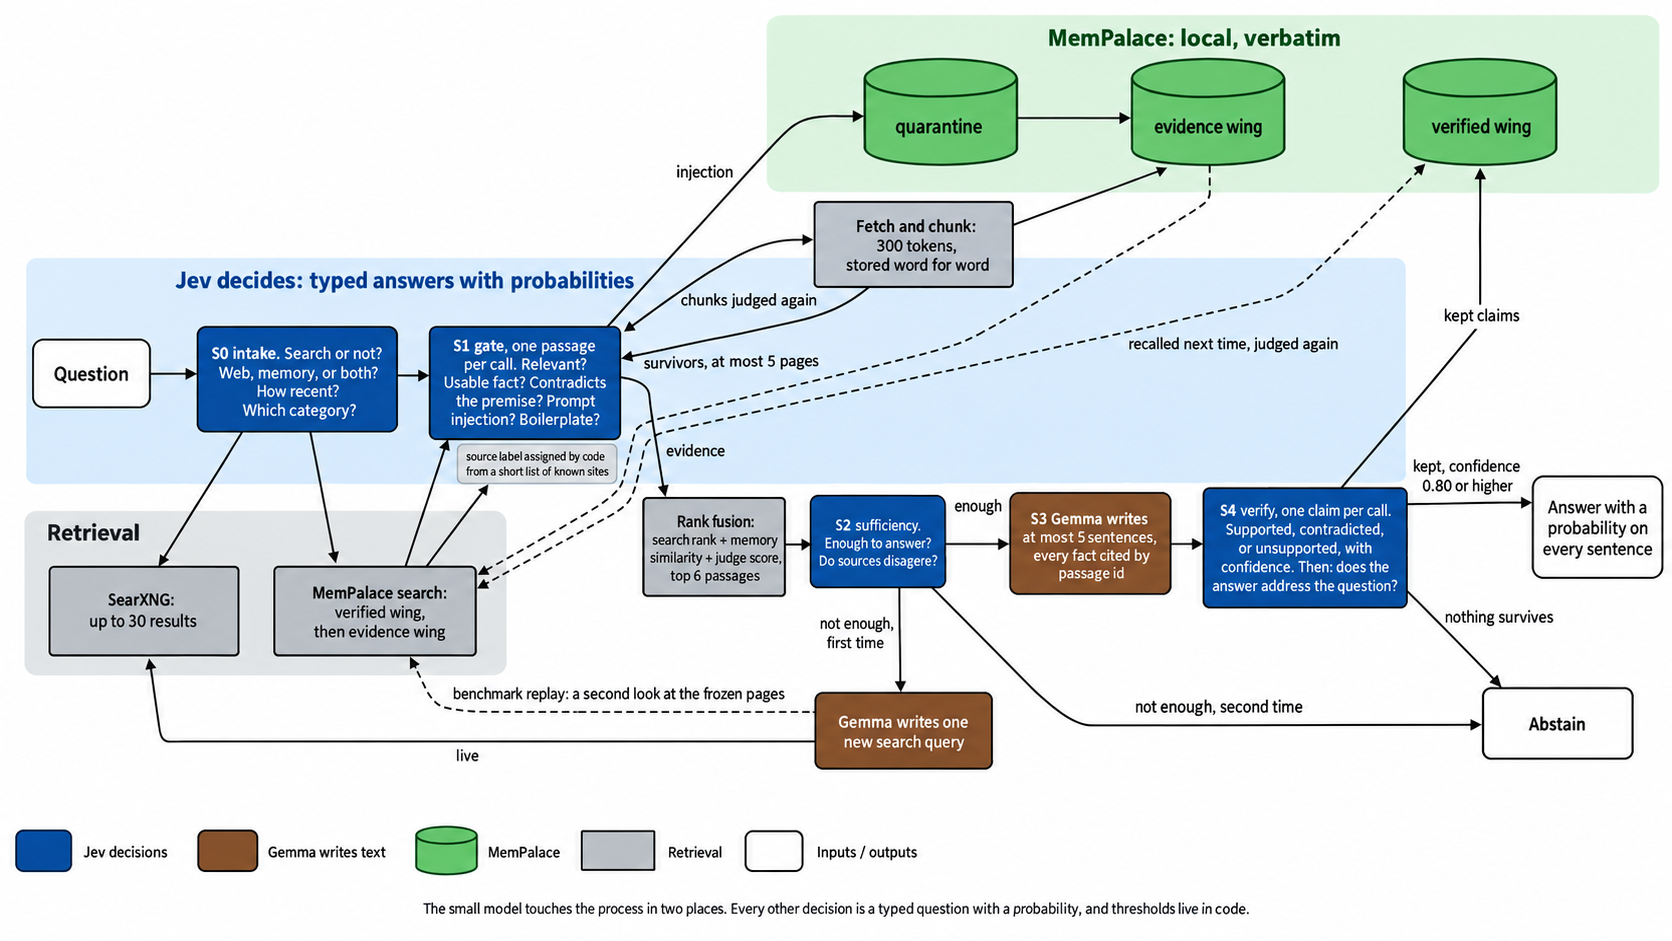
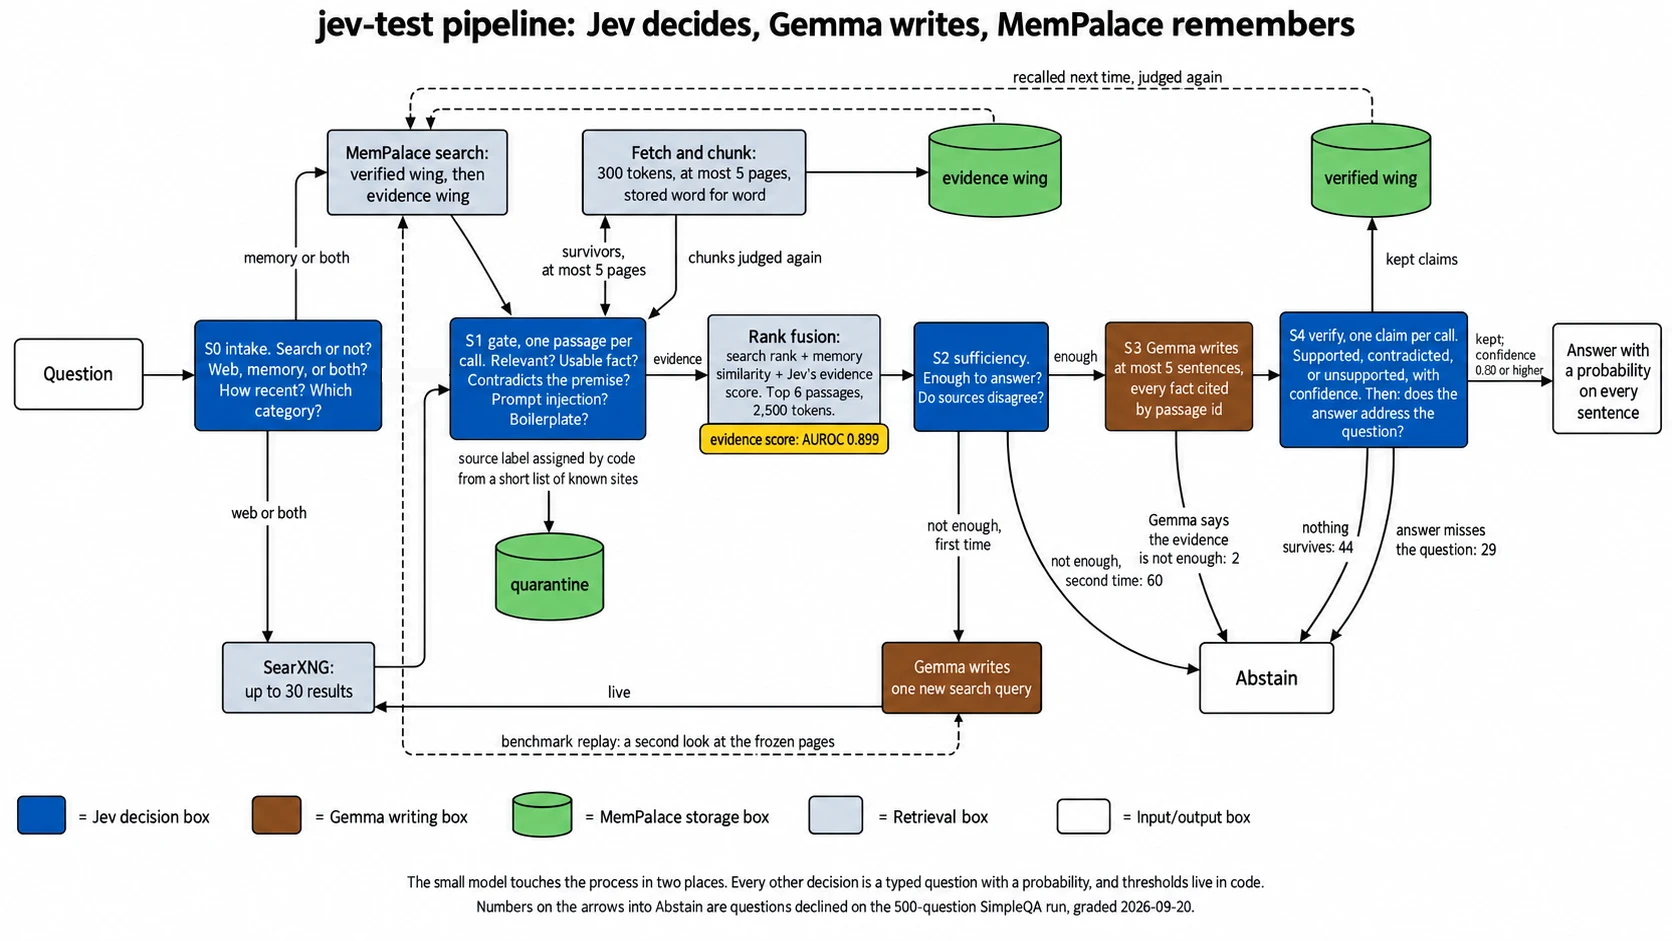
Redraw the pipeline figure with every exit to Abstain and its decline count
The old figure drew an arrow from quarantine to the evidence wing that the
pipeline does not have, and left out two exits to Abstain that the code has
always had: S3 when Gemma says the evidence is not enough (d_jev.py) and S4
when the answer misses the question (s4_verify.py, addresses_min 0.5). The
Mermaid source in docs/DESIGN.md gains both edges, and the figure now carries
the 500-question decline counts on each exit (60, 2, 44, 29, total 135). A note
under it explains why the README's total is 142: the grader scored 7 of the 365
answers as not attempted.

Rank fusion now names the score it ranks by, Jev's contains_answer_evidence
probability, tagged with its AUROC of 0.899.

docs/assets/pipeline-prompt.md records why the prompt fixes the layout on a grid
and lists the arrows the image model kept inventing. The committed image was
checked against all 24 arrows; two errors were corrected by hand (an arrow from
S0 straight into S1, and the threshold drawn as 0.90 instead of 0.80), and the
three cosmetic defects left in it are listed in that file.

diff --git a/docs/assets/pipeline-prompt.md b/docs/assets/pipeline-prompt.md
@@ -1,31 +1,96 @@
 # Image prompt for the pipeline figure
 
-Paste the prompt below into an image model to regenerate `pipeline.png`. It describes the pipeline as built on 2026-09-19, after arm D ran on the 20-question pilot. The Mermaid source in README.md is the ground truth; this prompt exists because image models draw a cleaner poster than Mermaid renders.
+Paste the prompt below into an image model to regenerate `pipeline.png`. It describes the pipeline as run on the 500-question SimpleQA track, graded 2026-09-20, with the decline counts from that run on the exits. The Mermaid source in `docs/DESIGN.md` is the ground truth for the boxes and arrows; this prompt exists because image models draw a cleaner poster than Mermaid renders.
+
+Check the result against the arrow list before committing it.
+
+The committed `pipeline.png` came from this prompt on 2026-09-21 and was checked against all 24 arrows. Two errors were corrected by hand in the pixels: an arrow from S0 straight into S1 that does not exist was removed, and the S4 threshold, drawn as 0.90, was changed to 0.80. Three small defects were left: the "survivors" arrow and the "benchmark replay" arrow each carry a second arrowhead, and the arrow from S1 to quarantine has no "injection" label.
+
+## Why the prompt is written this way
+
+Three generations taught the same lesson: the image model connects boxes that sit next to each other, whether or not an arrow exists. The 2026-09-19 figure drew an arrow from quarantine to the evidence wing. The first 2026-09-21 figure placed the four retrieval boxes in one row and chained them left to right, sent evidence straight from S1 to S2, and gave quarantine an outgoing arrow. Shaded group regions made this worse, because they forced unrelated boxes into rows, and the model put boxes in the wrong region both times.
+
+So this prompt fixes the layout on a grid and puts the real chain of stages along the middle row, where the model's habit of joining neighbours draws the true arrows. It drops the shaded regions and lets the colours and legend show the grouping. It asks for one arrowhead per arrow, and it names every false arrow the model has drawn so far.
+
+## What changed from the 2026-09-19 prompt
+
+- Two exits to Abstain that the pipeline always had and the old figure left out: S3, when Gemma says the evidence is not enough (`harness/arms/d_jev.py`), and S4, when the answer misses the question (`harness/stages/s4_verify.py`, `addresses_min` 0.5).
+- Decline counts from the 500-question run on each exit to Abstain.
+- Rank fusion names the evidence score it uses: Jev's `contains_answer_evidence` probability, which scored AUROC 0.899 against a label no model produced (`results/informativeness.json`).
+- Edge labels on the two S0 exits, and the 5-page and 2,500-token caps, from the Mermaid source.
 
 ## Prompt
 
-Draw a clean, flat, wide technical diagram (16:9, white background, no gradients, no 3D, no photographs, sans-serif labels, high contrast) of a question-answering pipeline. Read the whole description before drawing; every box below must appear once, with its exact label text, and the arrows must connect exactly as listed.
+Draw a clean, flat technical diagram of a question-answering pipeline. Wide horizontal format, white background, no gradients, no 3D, no photographs, sans-serif labels, high contrast, generous spacing between boxes. Read the whole description before drawing.
 
-Colour code, shown in a small legend at the bottom left: dark blue rounded boxes are decisions made by a decision model called Jev; brown rounded boxes are the only two places a small language model called Gemma writes text; green cylinders are a local memory store called MemPalace; grey boxes are retrieval; white boxes with a thin outline are inputs and outputs.
+Title at the top, centred: "jev-test pipeline: Jev decides, Gemma writes, MemPalace remembers"
 
-Flow from left to right.
+Colours: dark blue rounded boxes are decisions made by a decision model called Jev. Brown rounded boxes are the two places a small language model called Gemma writes text. Green cylinders are a local memory store called MemPalace. Light grey boxes are retrieval. White boxes with a thin outline are inputs and outputs. Put a small legend for these five colours at the bottom left. Do not draw any shaded background regions or region titles.
 
-1. A white rounded box on the far left: "Question".
-2. An arrow to the first dark blue box: "S0 intake. Search or not? Web, memory, or both? How recent? Which category?"
-3. From S0, two arrows: one down to a grey box "SearXNG: up to 30 results" and one to a grey box "MemPalace search: verified wing, then evidence wing".
-4. Both grey boxes feed a dark blue box: "S1 gate, one passage per call. Relevant? Usable fact? Contradicts the premise? Prompt injection? Boilerplate?" Under it, a small grey note: "source label assigned by code from a short list of known sites".
-5. From S1, three labelled exits: an arrow labelled "survivors, at most 5 pages" to a grey box "Fetch and chunk: 300 tokens, stored word for word"; an arrow labelled "injection" to a green cylinder "quarantine"; and an arrow labelled "evidence" to a grey box "Rank fusion: search rank + memory similarity + judge score, top 6 passages".
-6. The "Fetch and chunk" box has an arrow to a green cylinder "evidence wing" and an arrow back into S1 labelled "chunks judged again".
-7. Rank fusion feeds a dark blue box: "S2 sufficiency. Enough to answer? Do sources disagree?"
-8. From S2, three exits: "enough" to the brown box in step 9; "not enough, first time" to a small brown box "Gemma writes one new search query"; "not enough, second time" to a white rounded box "Abstain".
-9. The small brown query box has two arrows: a solid one back to "SearXNG" labelled "live", and a dashed one to "MemPalace search" labelled "benchmark replay: a second look at the frozen pages".
-10. The main brown box: "S3 Gemma writes at most 5 sentences, every fact cited by passage id".
-11. S3 feeds a dark blue box: "S4 verify, one claim per call. Supported, contradicted, or unsupported, with confidence. Then: does the answer address the question?"
-12. From S4, three exits: "kept, confidence 0.80 or higher" to a white rounded box "Answer with a probability on every sentence"; "kept claims" to a green cylinder "verified wing"; "nothing survives" to the same "Abstain" box.
-13. A dashed arrow from "verified wing" back to "MemPalace search" labelled "recalled next time, judged again". A dashed arrow from "evidence wing" to "MemPalace search".
+LAYOUT. Three rows. Place every box exactly where this sketch shows it:
 
-Group the four dark blue boxes inside a faint blue region titled "Jev decides: typed answers with probabilities". Group the three green cylinders inside a faint green region titled "MemPalace: local, verbatim". Group SearXNG, Fetch and chunk, MemPalace search and Rank fusion inside a faint grey region titled "Retrieval".
+TOP ROW:     .         .    [MemPalace search]  [Fetch and chunk]  (evidence wing)   .     .     (verified wing)   .
+MIDDLE ROW:  [Question] [S0]       .               [S1]             [Rank fusion]   [S2]  [S3]      [S4]         [Answer]
+BOTTOM ROW:  .         .    [SearXNG]           (quarantine)         .          [Gemma new query]  [Abstain]      .
 
-Add one line of small text under the diagram: "The small model touches the process in two places. Every other decision is a typed question with a probability, and thresholds live in code."
+So: MemPalace search sits above and SearXNG sits below the gap between S0 and S1. Fetch and chunk sits directly above S1, and quarantine directly below S1. The evidence wing sits above Rank fusion. The small Gemma query box sits directly below S2. The verified wing sits directly above S4. Abstain sits below, between S3 and S4.
+
+Boxes, with their exact label text:
+
+- White: "Question"
+- Dark blue: "S0 intake. Search or not? Web, memory, or both? How recent? Which category?"
+- Dark blue: "S1 gate, one passage per call. Relevant? Usable fact? Contradicts the premise? Prompt injection? Boilerplate?" with a small grey note under it: "source label assigned by code from a short list of known sites"
+- Dark blue: "S2 sufficiency. Enough to answer? Do sources disagree?"
+- Dark blue: "S4 verify, one claim per call. Supported, contradicted, or unsupported, with confidence. Then: does the answer address the question?"
+- Brown: "S3 Gemma writes at most 5 sentences, every fact cited by passage id"
+- Brown, smaller: "Gemma writes one new search query"
+- Grey: "SearXNG: up to 30 results"
+- Grey: "MemPalace search: verified wing, then evidence wing"
+- Grey: "Fetch and chunk: 300 tokens, at most 5 pages, stored word for word"
+- Grey: "Rank fusion: search rank + memory similarity + Jev's evidence score. Top 6 passages, 2,500 tokens." with a small yellow tag attached: "evidence score: AUROC 0.899"
+- Green cylinders: "quarantine", "evidence wing", "verified wing"
+- White: "Answer with a probability on every sentence"
+- White: "Abstain"
+
+ARROWS. Draw exactly these 24 arrows and no others. Every arrow has exactly one arrowhead, at the second box named. Where two arrows join the same pair of boxes in opposite directions, draw them as two separate parallel arrows.
+
+1. Question to S0
+2. S0 to SearXNG, label "web or both"
+3. S0 to MemPalace search, label "memory or both"
+4. SearXNG to S1
+5. MemPalace search to S1
+6. S1 up to Fetch and chunk, label "survivors, at most 5 pages"
+7. Fetch and chunk back down to S1, label "chunks judged again"
+8. Fetch and chunk to evidence wing
+9. S1 down to quarantine, label "injection"
+10. S1 to Rank fusion, label "evidence"
+11. Rank fusion to S2
+12. S2 down to Gemma writes one new search query, label "not enough, first time"
+13. Gemma writes one new search query to SearXNG, solid line running along the bottom of the picture, label "live"
+14. Gemma writes one new search query to MemPalace search, dashed line, label "benchmark replay: a second look at the frozen pages"
+15. S2 to Abstain, label "not enough, second time: 60"
+16. S2 to S3, label "enough"
+17. S3 to Abstain, label "Gemma says the evidence is not enough: 2"
+18. S3 to S4
+19. S4 to Answer, label "kept, confidence 0.80 or higher"
+20. S4 up to verified wing, label "kept claims"
+21. S4 to Abstain, label "nothing survives: 44"
+22. S4 to Abstain, label "answer misses the question: 29"
+23. verified wing to MemPalace search, dashed line running along the top of the picture, label "recalled next time, judged again"
+24. evidence wing to MemPalace search, dashed line running along the top of the picture, no label
+
+DO NOT DRAW any of these arrows, which do not exist:
+- between MemPalace search and SearXNG
+- between MemPalace search and Fetch and chunk
+- between Fetch and chunk and Rank fusion
+- between Rank fusion and evidence wing
+- between S1 and S2 directly (evidence reaches S2 only through Rank fusion)
+- between any two cylinders
+- from quarantine to anything (quarantine only receives the one arrow from S1)
+- between SearXNG and quarantine
+
+Two lines of small text under the diagram:
+"The small model touches the process in two places. Every other decision is a typed question with a probability, and thresholds live in code."
+"Numbers on the arrows into Abstain are questions declined on the 500-question SimpleQA run, graded 2026-09-20."
 
 No other text, no logos, no icons of people, no watermark.

diff --git a/docs/DESIGN.md b/docs/DESIGN.md
@@ -33,6 +33,8 @@ Blue boxes are decisions Jev makes. Brown boxes are the only places the small mo
 
 ![The pipeline: Jev decides, Gemma writes, MemPalace remembers](assets/pipeline.png)
 
+The numbers on the exits to Abstain are from the 500-question run: the pipeline declined 135 questions (60 at S2, 2 at S3, 44 and 29 at S4) and answered 365. The grader scored 7 of those 365 answers as not attempted, which is where the README's total of 142 comes from.
+
 ```mermaid
 flowchart LR
   Q(["Question"]) --> S0
@@ -60,7 +62,7 @@ flowchart LR
   end
 
   S0 -- "web or both" --> WEB
-  S0 -- "palace or both" --> PAL
+  S0 -- "memory or both" --> PAL
   WEB --> S1
   PAL --> S1
   S1 -- "surviving snippets" --> FETCH
@@ -74,10 +76,12 @@ flowchart LR
   REFINE -. "benchmark replay: the frozen pages" .-> PAL
   S2 -- "not enough, second time" --> ABS(["Abstain"])
   S2 -- "enough" --> S3["S3 Gemma 4 E2B writes<br/>at most 5 sentences, every fact cited"]
+  S3 -- "Gemma says the evidence is not enough" --> ABS
   S3 --> S4
   S4 -- "kept, confidence 0.80 or higher" --> OUT(["Answer with per-claim probabilities"])
   S4 -- "kept claims" --> VER
   S4 -- "nothing survives" --> ABS
+  S4 -- "answer misses the question" --> ABS
   VER -. "recalled next time, judged again" .-> PAL
   EV -.-> PAL
 
